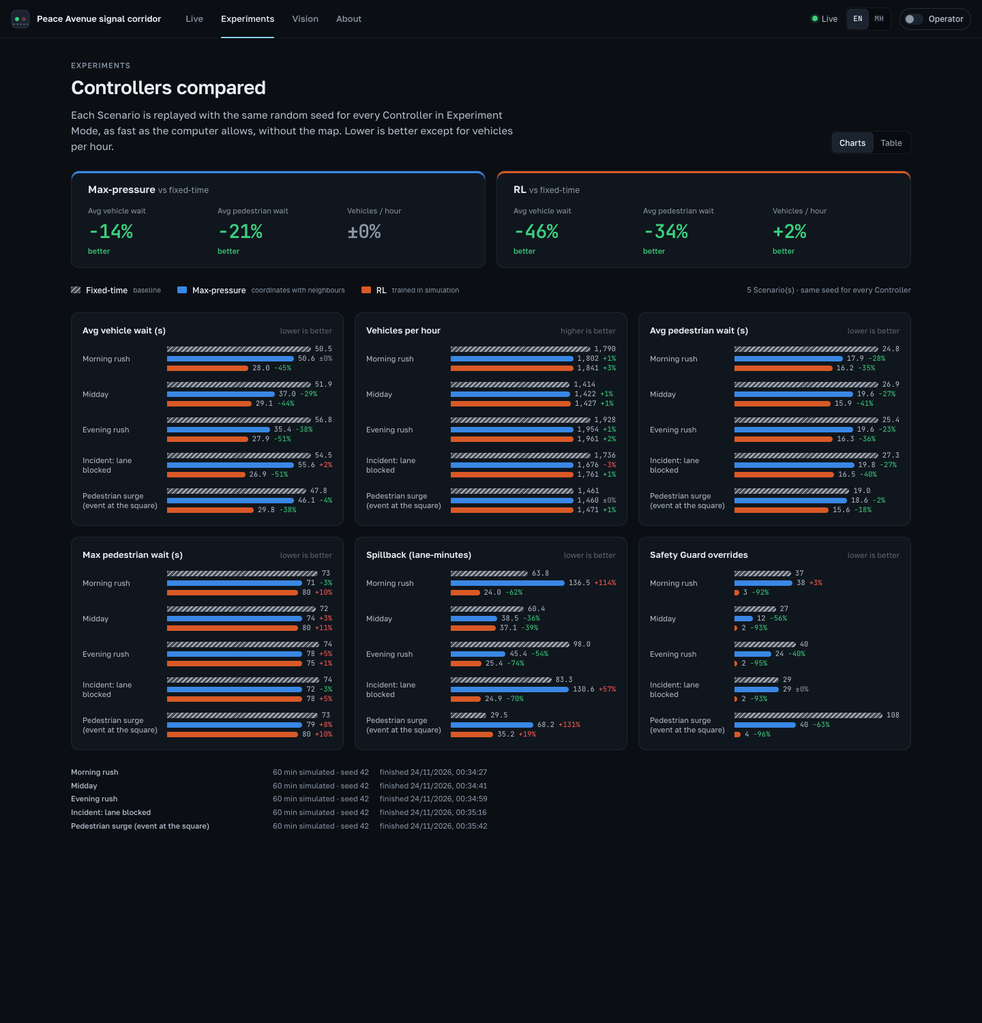
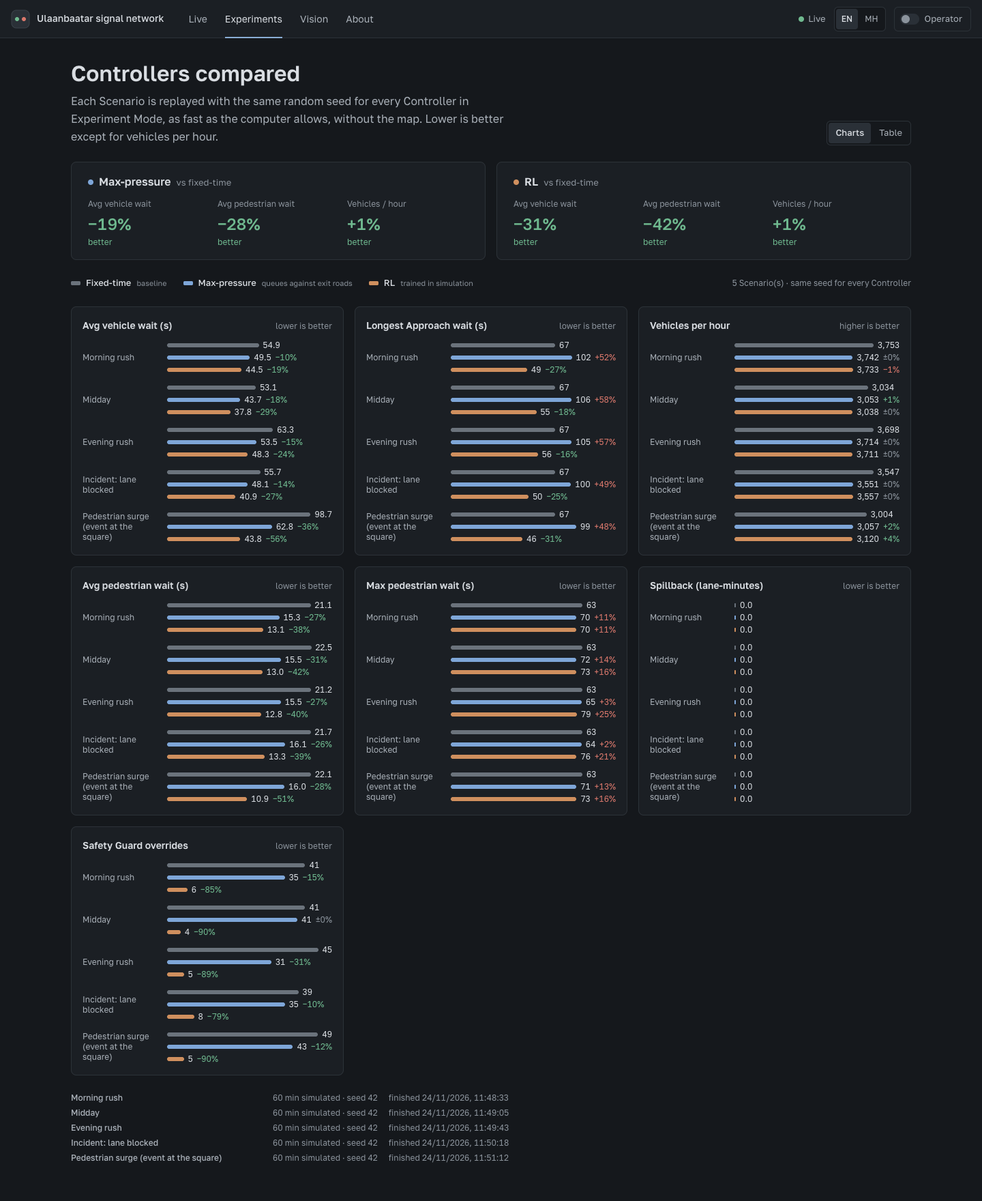
Describe the Network and its results in the docs

diff --git a/README.md b/README.md
@@ -1,41 +1,66 @@
-# Smart traffic lights for Peace Avenue, Ulaanbaatar
+# Ulaanbaatar signal network
 
-An open-source demo of AI traffic-signal control on a 1.3 km stretch of Peace Avenue (Энх тайваны өргөн чөлөө) in central Ulaanbaatar. It controls five Signal Sites, from the State Department Store to Baga Toiruu East, past the Central Post Office and Sükhbaatar Square. Vehicles and pedestrians are simulated on real road geometry from OpenStreetMap. Controllers decide which Phase goes green, and a Safety Guard makes sure nobody waits too long.
+An open-source demo of AI traffic-signal control in central Ulaanbaatar. It controls a Network of 15 Signal Sites on streets running east-west and north-south around Sükhbaatar Square: 14 Intersections and one Mid-block Crossing, at the State Department Store. Vehicles and pedestrians are simulated on real road geometry from OpenStreetMap. Controllers decide which Phase goes green, and a Safety Guard limits how long anyone waits.
 
-The words used here (Signal Site, Approach, Crosswalk, Phase, Spillback, Safety Guard and so on) are defined in [GLOSSARY.md](GLOSSARY.md). The big decisions are in [docs/adr](docs/adr).
+Fourteen of the sites lie on eight Corridors:
 
-![Live corridor map](docs/screenshots/live-map.png)
+| Corridor | Direction | Signal Sites |
+|---|---|---|
+| Peace Avenue | east-west | 5 |
+| Sambuu St | east-west | 4 |
+| Juulchny St | east-west | 2 |
+| Genden St | east-west | 2 |
+| Baga Toiruu West | north-south | 3 |
+| Sükhbaatar St – Chinggis Ave | north-south | 3 |
+| University St – Olympic St | north-south | 4 |
+| Baga Toiruu East | north-south | 2 |
+
+A site where two Corridors cross counts in both. Seoul St / Tserendorj St is in no Corridor. Other signals inside the area run fixed programs and are drawn grey.
+
+The words used here (Network, Corridor, Signal Site, Approach, Crosswalk, Phase, Spillback, Safety Guard and so on) are defined in [GLOSSARY.md](GLOSSARY.md). The big decisions are in [docs/adr](docs/adr).
+
+![Live map of the Network](docs/screenshots/live-map.png)
 
 ## How it decides
 
 - **The Controller proposes, the Safety Guard decides** ([ADR 0002](docs/adr/0002-controller-proposes-safety-guard-decides.md)). Three Controllers can be switched live:
   - **Fixed-time**: cycles Phases on a schedule, like most of the city today. This is the Baseline.
-  - **Max-pressure**: gives green where waiting queues most exceed the room on the roads they drain into. It looks at its Neighbours' queues, so it won't feed a Signal Site that is already jammed.
+  - **Max-pressure**: gives green to the Phase whose waiting vehicles most exceed the vehicles already on their exit roads. Each Signal Site decides from its own Approaches and exits; sites do not coordinate.
   - **RL**: a phase scorer trained in the simulation.
-- **Caps the Safety Guard enforces, whatever the Controller wants:**
-  - Pedestrians never wait more than **90 s**.
-  - A vehicle Approach waits at most **120 s**. The Guard may extend that while the Approach's exit has Spillback, but never past **180 s**.
+- **Caps the Safety Guard works to, whatever the Controller wants** (defaults; an Operator can change them):
+  - Pedestrians: Hard Cap **90 s**.
+  - A vehicle Approach: Soft Cap **120 s**, which the Guard may extend while the Approach's exit has Spillback, and Hard Cap **180 s**.
   - Min green, pedestrian walk and clearance, yellow and all-red always run.
   - Every Override is logged with the rule that forced it.
 - **Camera vision** (`vision/`) shows what a camera would feed the Controller: queued vehicles per Approach and waiting pedestrians per Crosswalk, measured on recorded street video. It is a showcase, and the simulation does not use it ([ADR 0001](docs/adr/0001-simulation-first-on-sumo.md)).
 
 ## Results
 
-These come from Experiment Mode: each Scenario runs for one hour, with the same traffic for every Controller (`sim/data/experiments/`). Each cell reads fixed-time → max-pressure → RL.
+These come from Experiment Mode: each Scenario runs for one hour, with the same traffic for every Controller (`sim/data/experiments/`, seed 42). Each cell reads Fixed-time → Max-pressure → RL.
 
-| Scenario | Avg vehicle wait | Avg pedestrian wait | Max pedestrian wait | Spillback minutes |
+| Scenario | Avg vehicle wait | Longest Approach wait | Avg pedestrian wait | Max pedestrian wait |
 |---|---|---|---|---|
-| Morning rush | 50.5 → 50.6 → 28.0 s | 24.8 → 17.9 → 16.2 s | 73 → 71 → 80 s | 63.8 → 136.5 → 24.0 |
-| Midday | 51.9 → 37.0 → 29.1 s | 26.9 → 19.6 → 15.9 s | 72 → 74 → 80 s | 60.4 → 38.5 → 37.1 |
-| Evening rush | 56.8 → 35.4 → 27.9 s | 25.4 → 19.6 → 16.3 s | 74 → 78 → 75 s | 98.0 → 45.4 → 25.4 |
-| Incident: lane blocked | 54.5 → 55.6 → 26.9 s | 27.3 → 19.8 → 16.5 s | 74 → 72 → 78 s | 83.3 → 130.6 → 24.9 |
-| Pedestrian surge | 47.8 → 46.1 → 29.8 s | 19.0 → 18.6 → 15.6 s | 73 → 79 → 80 s | 29.5 → 68.2 → 35.2 |
+| Morning rush | 54.9 → 49.5 → 44.5 s | 67 → 102 → 49 s | 21.1 → 15.3 → 13.1 s | 63 → 70 → 70 s |
+| Midday | 53.1 → 43.7 → 37.8 s | 67 → 106 → 55 s | 22.5 → 15.5 → 13.0 s | 63 → 72 → 73 s |
+| Evening rush | 63.3 → 53.5 → 48.3 s | 67 → 105 → 56 s | 21.2 → 15.5 → 12.8 s | 63 → 65 → 79 s |
+| Incident: lane blocked | 55.7 → 48.1 → 40.9 s | 67 → 100 → 50 s | 21.7 → 16.1 → 13.3 s | 63 → 64 → 76 s |
+| Pedestrian surge (event at the square) | 98.7 → 62.8 → 43.8 s | 67 → 99 → 46 s | 22.1 → 16.0 → 10.9 s | 63 → 71 → 73 s |
 
-- **RL** roughly halves the average vehicle wait against the Baseline, and cuts the average pedestrian wait by about a third.
-- **Max-pressure** clearly helps at midday and in the evening rush. In the morning rush and the incident it ties the Baseline on vehicle wait and builds more Spillback.
-- **The pedestrian cap held**: no run let a pedestrian wait more than 90 s.
+"Longest Approach wait" is the longest time any Approach with a Queue went without green. One vehicle can need more than one green, so it is not the longest wait of a single vehicle.
 
-Traffic demand is generated, not measured, so compare the Controllers with each other, not with real Peace Avenue.
+- **RL** has the lowest average vehicle wait, the lowest average pedestrian wait and the shortest Longest Approach wait in every Scenario. Against the Baseline it cuts the average vehicle wait by 19% to 56% and the average pedestrian wait by 38% to 51%.
+- **Max-pressure** comes second on both averages in every Scenario: 10% to 36% lower for vehicles, 26% to 31% lower for pedestrians. Its Longest Approach wait is the worst of the three, 48% to 58% longer than the Baseline, and the Safety Guard's vehicle Soft Cap forces most of its Overrides.
+- **Both are worse than the Baseline on the longest pedestrian wait** in every Scenario: 64 to 72 s for Max-pressure and 70 to 79 s for RL, against 63 s.
+- **Throughput barely changes.** Vehicles served per hour stay within 1% of the Baseline except in the pedestrian surge (Max-pressure +2%, RL +4%). In the morning rush both serve slightly fewer (3,742 and 3,733 against 3,753).
+- **Some vehicles get stuck.** SUMO removes a vehicle that has not moved for 300 s and puts it back further on (a teleport). That happened to at most 25 of 3,966 vehicles in a run. RL has more teleports than the Baseline at midday (13 against 9), in the evening rush (25 against 7) and in the incident (20 against 15); Max-pressure has more in the evening rush (17 against 7) and the pedestrian surge (17 against 16).
+
+**Caps.** All 15 runs stayed within the Hard Caps of 90 s for pedestrians and 180 s for Approaches: the longest waits were 79 s and 106 s. A randomised search at the default caps also found no breach. That is evidence, not proof. With the Operator's pedestrian cap at its minimum of 45 s, a 3-Phase Signal Site can breach the vehicle Hard Cap: a wait of 192 s was measured, and a Phase without a Crosswalk can be starved.
+
+**Earlier results.** Results published before the 15-site Network came from a sensor that saw waiting pedestrians at only one kerb of each Crosswalk, so the earlier claim that no pedestrian waited more than 90 s did not hold. A check of those 15 runs found 99 waits over 90 s in 14 of them, the longest 315 s where the metric said 71 s. Both kerbs are now sensed ([ledger](docs/specs/0001-street-network/factory.md)). The old numbers are for a different road network and must not be compared with this table.
+
+**Spillback** is 0.0 lane-minutes in every run, so it is not in the table. The earlier non-zero figures came from the road import: junctions left unjoined had exit lanes 0.2 to 7.1 m long, where a single car counted as a full road (in the old run that was traced, evening rush with Max-pressure, all 45.4 minutes were on such lanes). Those junctions are now joined and the shortest exit lane is 16.6 m. An exit lane counts as Spillback when it is 75% full; across the 15 runs the fullest reading was 78%, and all such readings in a run together rounded to 0.0 minutes. Only the first road segment after a site is measured, so 0.0 does not mean there are no queues. It does mean these runs hardly exercise the parts of the Safety Guard and the Controllers that react to Spillback.
+
+Traffic demand is generated, not measured, so compare the Controllers with each other, not with real traffic in Ulaanbaatar.
 
 ![Controllers compared](docs/screenshots/experiments.png)
 
@@ -60,10 +85,10 @@ With Docker, `docker compose up --build` starts all three (if your default build
 
 | Path | What |
 |---|---|
-| `sim/` | SUMO corridor model, Safety Guard, Controllers, live API, Experiment Mode, RL training. See [sim/README.md](sim/README.md) |
+| `sim/` | SUMO model of the Network, Safety Guard, Controllers, live API, Experiment Mode, RL training. See [sim/README.md](sim/README.md) |
 | `vision/` | YOLO vehicle and pedestrian counting on recorded video. See [vision/README.md](vision/README.md) |
 | `client/` | React + Vite web client: live map, Signal Site detail, Operator controls, experiments, vision. See [client/README.md](client/README.md) |
-| `docs/` | ADRs and research notes |
+| `docs/` | ADRs, specs and research notes |
 
 ## Data and licences
 

diff --git a/sim/README.md b/sim/README.md
@@ -1,6 +1,6 @@
-# Corridor simulation
+# Ulaanbaatar signal network: simulation
 
-The simulation service: a SUMO model of five Signal Sites on Peace Avenue, the Safety Guard, three Controllers, the live API the client uses, and Experiment Mode.
+The simulation service: a SUMO model of a Network of 15 Signal Sites on eight Corridors in central Ulaanbaatar, the Safety Guard, three Controllers, the live API the client uses, and Experiment Mode. The Python package is still named `corridor_sim`.
 
 ## Run
 
@@ -8,6 +8,8 @@ The simulation service: a SUMO model of five Signal Sites on Peace Avenue, the S
 uv sync
 uv run python -m corridor_sim.server          # http://localhost:8000
 ```
+
+`HOST`, `PORT` and `CORS_ORIGINS` (comma-separated) change where it listens and which origins may call it.
 
 Optional: copy `.env.example` to `.env.local` and set `OPENAI_API_KEY` to enable "Explain this decision". The narrator only describes a Signal Site's state after the fact; it never takes part in control (ADR 0002).
 
@@ -22,13 +24,16 @@ uv run python -m corridor_sim.build
 
 The build:
 
-1. Downloads the corridor from Overpass (`scripts/fetch_osm.sh`).
-2. Runs `netconvert` with guessed sidewalks and crossings.
-3. Joins the State Department Store mid-block signal nodes and adds its Crosswalk.
-4. Merges the eight Central Post Office signal nodes into one junction.
-5. Resolves each Signal Site to its traffic light (`data/sites.json`).
-6. Exports map geometry for the client (`data/network.json`).
-7. Writes the five Scenarios (`data/scenarios/`).
+1. Downloads the area from Overpass (`scripts/fetch_osm.sh`) if `data/corridor.osm.xml` is missing.
+2. Runs `netconvert` with guessed sidewalks and crossings, leaving out OSM's separate footways.
+3. Joins the nodes that `netconvert` left apart at six Signal Sites (`join_nodes` in `config.py`), and discards OSM turn lanes at four of them (`reset_connections`).
+4. Adds the Crosswalk of the Mid-block Crossing at the State Department Store. The result is `data/corridor.net.xml`.
+5. Resolves each of the 15 Signal Sites to the closest traffic light, at most 60 m away, with its Approaches, Crosswalks and Neighbours (`data/sites.json`). Neighbours come from the road graph: a drivable path, in either direction, of at most 700 m with no other controlled site on it.
+6. Checks the sites and Corridors, and exits with a message and a non-zero status if a site has no Phase or more than three, an Approach, Crosswalk or vehicle signal no Phase serves, or a traffic light another site uses, or if two sites next to each other on a Corridor are not Neighbours.
+7. Exports map geometry, sites and Corridors for the client (`data/network.json`).
+8. Writes the five Scenarios (`data/scenarios/`). A vehicle volume is set per street class (arterial, collector, minor) and direction for every road entering the area. An incident that does not match exactly one Approach stops the build.
+
+Each experiment result and the RL model record the SHA-256 of `data/corridor.net.xml`. If a rebuild changes the network, retrain RL and rerun the experiments; the server logs a warning when the model does not match.
 
 ## Experiment Mode
 
@@ -47,24 +52,27 @@ uv run python -m corridor_sim.controllers.rl train --iterations 12 --population 
 
 The RL Controller scores each Phase with a linear function of nine features: pressure, upstream queue, Spillback on exits, waiting pedestrians, the oldest pedestrian and vehicle waits, stickiness and the age of the current Phase. It is trained by cross-entropy policy search, which optimises the weights directly for average vehicle wait plus half the average pedestrian wait, penalising teleports and vehicles stuck waiting to enter the network.
 
-Each candidate runs inside the Safety Guard, so the policy learns within the caps rather than learning them. Training takes about 4 minutes on an M2 Pro. It uses the same five Scenarios with different random seeds from the evaluation, so the results show what the policy can learn on this corridor, not how it generalises to unseen traffic.
+`train` scores each candidate on two half-hour runs per iteration, so the command above simulates 336 runs. Each candidate runs inside the Safety Guard, so the policy learns within the caps rather than learning them. Training overwrites `data/models/rl-linear.json`. It uses the same five Scenarios with different random seeds from the evaluation, so the results show what the policy can learn on this Network, not how it generalises to unseen traffic.
 
 ## API
 
 | Method | Path | Purpose |
 |---|---|---|
-| GET | `/api/network` | Geometry, Signal Sites with Approaches, Crosswalks, Phases and Neighbours, Scenarios, Controllers |
+| GET | `/api/network` | Geometry and bounds, Signal Sites with Approaches (with `direction` and `streetEn`), Crosswalks (with `streets`), Phases and Neighbours, `corridors` (`id`, names, `axis` `ew` or `ns`, `sites` in order), Scenarios, Controllers |
+| GET | `/api/health` | Liveness and Scenario time |
 | GET | `/api/state` | Scenario, Controller, speed, pause, caps |
-| WS | `/ws` | `state` messages and live `frame` messages (signals, queues, waits, Congestion Levels, metrics, events, vehicles, pedestrians) |
+| WS | `/ws` | `state` messages and live `frame` messages (signals, queues, waits, Congestion Levels, metrics, events, vehicles, pedestrians). `metrics.maxVehicleWait` is the Longest Approach wait. The first frame after connecting carries recent events |
 | POST | `/api/control` | `pause`, `resume`, `speed`, `scenario`, `restart`, `controller`, `caps`, `button` (Pedestrian Demand), `block` (toggle a lane closure) |
 | POST | `/api/explain` | Plain-language explanation of one Signal Site, `language` `en` or `mn` |
-| GET/POST | `/api/experiments` | Read results or start a background run |
+| GET/POST | `/api/experiments` | Read results (with `maxVehicleWait` per Controller) or start a background run of an hour per Scenario |
 
 ## Layout
 
-- `corridor_sim/model.py`: Signal Sites, links and Phases, read from the SUMO network.
+- `corridor_sim/config.py`: Signal Site and Corridor definitions, default caps, timings and thresholds.
+- `corridor_sim/build.py`: the network, Neighbour and Scenario build.
+- `corridor_sim/model.py`: Signal Sites, links and Phases, read from the SUMO network, and site validation.
 - `corridor_sim/phases.py`: builds compact conflict-free Phases where SUMO's guess has too many.
-- `corridor_sim/sensing.py`: queues, Spillback, waiting pedestrians and Congestion Levels.
+- `corridor_sim/sensing.py`: queues, Spillback, waiting pedestrians at both kerbs and Congestion Levels.
 - `corridor_sim/guard.py`: the Safety Guard, covering clearance, yellow, all-red, min green, the caps and Overrides.
 - `corridor_sim/controllers/`: the fixed-time, max-pressure and RL Controllers.
 - `corridor_sim/engine.py`: the simulation loop, wait tracking, metrics, incidents and frames.

diff --git a/docs/research/street-network-osm.md b/docs/research/street-network-osm.md
@@ -1,0 +1,95 @@
+# Street network (Ulaanbaatar): OSM signals and data quality for the 15-site Network
+
+Sources: the committed extract `sim/data/corridor.osm.xml` (Overpass, OSM base timestamp `2026-11-24T03:09:47Z`, fetched by
+`sim/scripts/fetch_osm.sh`), the Signal Site definitions in `sim/corridor_sim/config.py` and the built `sim/data/sites.json`.
+Facts marked "survey" come from a wider Overpass query (bbox 47.905,106.895,47.930,106.935, base `2026-11-24T02:28:56Z`),
+kept only in a temporary scratchpad. The earlier survey of Peace Avenue is [peace-avenue-corridor-osm.md](peace-avenue-corridor-osm.md).
+
+- bbox (south, west, north, east): **47.9115, 106.9030, 47.9245, 106.9280**
+- The extract holds 4,288 nodes and 907 ways. Ways are kept whole, so some reach outside the bbox. 33 nodes are
+  `highway=traffic_signals`; 49 are signalised crossings (`crossing=traffic_signals` or `crossing:signals=yes`).
+- The built network has 23 traffic lights: 15 belong to the Signal Sites, 8 run fixed programs.
+
+## The 15 sites
+
+"Signal nodes" and "signalised crossings" are nodes within 60 m of the coordinates in `config.py`. Crossings count only when
+they lie on a road. Approaches and Crosswalks are what the build resolved; `netconvert` guesses Crosswalks where OSM has none.
+
+| id | lat, lon (`config.py`) | Signal nodes | Signalised crossings | Approaches | Crosswalks |
+|---|---|---|---|---|---|
+| ikh-delguur (Mid-block Crossing) | 47.91618, 106.90638 | 8995081807 | 2 | 2 | 2 |
+| baga-toiruu-west | 47.91666, 106.91193 | 57677289, 8420678194 | 4 | 3 | 4 |
+| tuv-shuudan | 47.91673, 106.91625 | 1270395917, 1270396026, 2513512815 | 6 | 4 | 5 |
+| ikh-surguuli | 47.91723, 106.91958 | 1054352912, 3911981611 | 8 | 4 | 4 |
+| baga-toiruu-east | 47.91775, 106.92394 | 57677290, 1054352964 | 0 | 3 | 3 |
+| juulchny-baga-toiruu | 47.92003, 106.91138 | 305119956 | 0 | 4 | 4 |
+| amar-ikh-surguuli | 47.91993, 106.91888 | 280742669 | 1 | 3 | 3 |
+| sambuu-baga-toiruu-west | 47.92213, 106.91095 | 6236425319 | 1 | 4 | 3 |
+| sambuu-sukhbaatar | 47.92208, 106.91555 | 2496907426 | 1 | 4 | 4 |
+| sambuu-ikh-surguuli | 47.92222, 106.91844 | 3913061711 | 0 | 4 | 4 |
+| sambuu-baga-toiruu-east | 47.92257, 106.92291 | 280742383 | 5 | 4 | 3 |
+| juulchny-baruun-selbe | 47.91971, 106.90641 | none | 2 | 4 | 4 |
+| chinggis-genden | 47.91319, 106.91516 | 480748221, 8995108307 | 1 | 4 | 5 |
+| olympic-genden | 47.91408, 106.92183 | 281051608 | 3 | 4 | 4 |
+| seoul-tserendorj | 47.91375, 106.90689 | 281052570, 395232771 | 4 | 4 | 6 |
+
+- `juulchny-baruun-selbe` has no signal node, only signalised crossings (9763736527, 14026600889) about 11 m either side of
+  the junction. It is controlled on that evidence.
+- `chinggis-genden` includes the pedestrian signal 8995108307 (`traffic_signals=pedestrian_crossing`), about 51 m north of its
+  junction. The two junctions share one traffic light.
+- Three junctions have no signal node and stay unsignalised: Seoul / Chinggis (node 1241687100, nearest signal 94 m),
+  Sükhbaatar / Juulchny (641468227, 205 m) and Amar / Baga Toiruu east (3892885154, 255 m).
+
+## Junctions that need joins
+
+At six sites `netconvert` leaves nodes of one junction apart, with stubs shorter than a car between them, so the build joins
+the OSM nodes listed as `join_nodes`:
+
+| Site | Nodes | OSM turn lanes |
+|---|---|---|
+| ikh-delguur | 3 | kept |
+| tuv-shuudan | 9 | discarded |
+| ikh-surguuli | 4 | kept |
+| sambuu-sukhbaatar | 4 | discarded |
+| sambuu-ikh-surguuli | 3 | discarded |
+| juulchny-baruun-selbe | 2 | discarded |
+
+Turn lanes are discarded where joining left whole lanes that can do nothing but a U-turn.
+
+## Data quality for SUMO import
+
+Shares are by length of ways inside the bbox, from the committed extract (a way segment counts if its midpoint is inside).
+"Major" is trunk to tertiary with links, 20.4 km; "minor" is unclassified, residential and living street, 17.1 km.
+
+| | Major | Minor |
+|---|---|---|
+| `lanes` | 100% | 59% |
+| `maxspeed` | 90% | 3% |
+| `turn:lanes*` | 12% | 0% |
+| any `sidewalk*` | 60% | 9% |
+| `name` | 93% | 18% |
+
+- **Direction split.** 61% of major road length is two-way with two or more lanes. For 38% (about six tenths of it) there is
+  no `lanes:forward` or `lanes:backward`, so the split between directions is a guess. That includes all of Juulchny, Genden,
+  Amar and Usny streets, 80% of Chinggis Ave, 72% of Seoul St and 64% of Olympic St. Two ways have an odd total with no
+  split: 241658524 (Ambassador St, 3 lanes) and 1537784426 (Seoul St, 5 lanes).
+- **Speed.** Tserendorj St and Usny St have no `maxspeed`.
+- **Sidewalks.** OSM maps most sidewalks as separate footways. The build leaves those out and guesses sidewalks on the roads.
+- **Turn restrictions.** The survey found 45 turn restriction relations with a via node in the bbox (25 `no_left_turn`,
+  15 `no_u_turn`, 3 `no_right_turn`, 2 `no_straight_on`). `fetch_osm.sh` asks for ways only, so the extract holds no
+  relations and the network does not know these restrictions.
+- **Names.** Spellings differ by case or letter for one street (`Бага Тойруу` / `Бага тойруу`, `Баруун сэлбийн` /
+  `Баруун Сэлбийн`, `Энх тайвны` / `Энх тайваны`). The build matches names without case and has one alias.
+- **Unnamed continuations.** 24 major ways have no name. Seven ways that continue a named street get its name by way id in
+  `build.py`: 863783234 (Peace Ave), 81528712 (Baga Toiruu), 81528723 (Sambuu St), 303599291 (Beijing St), 34409213 and
+  512970905 (Baruun Selbe St), 708458504 (Usny St).
+
+## Not verified
+
+- Whether OSM signals and crossings match the ground, including the sites and the unsignalised junctions above.
+- Real signal timings and Phases. The Phases are derived from the road geometry.
+- Crosswalks guessed where OSM has no signalised crossing: all of them at `baga-toiruu-east`, `juulchny-baga-toiruu` and
+  `sambuu-ikh-surguuli`.
+- Lane splits on the two-way streets listed above, and lane use where turn lanes were discarded.
+- Mongolian site names and the English transliterations.
+- Demand. Volumes are generated from street class and direction, not measured.

diff --git a/client/README.md b/client/README.md
@@ -1,6 +1,6 @@
 # Client
 
-The web app for the Peace Avenue corridor demo: a live map of the simulated Corridor, a panel for each Signal Site, Operator controls, Controller comparisons from Experiment Mode, the camera vision showcase and a plain-language explanation of the system. UI text is in English and Mongolian. Terms follow [GLOSSARY.md](../GLOSSARY.md).
+The web app for the Ulaanbaatar signal network: a live map of the simulated Network of 15 Signal Sites, a picker for its eight Corridors, a panel for each Signal Site, Operator controls, Controller comparisons from Experiment Mode, the camera vision showcase and a plain-language explanation of the system. UI text is in English and Mongolian. Terms follow [GLOSSARY.md](../GLOSSARY.md).
 
 React 19, Vite, TypeScript (strict) and MapLibre GL JS. The basemap is OpenFreeMap's `dark` style (no key); map data © OpenStreetMap contributors.
 
@@ -54,20 +54,20 @@ docker run --rm -p 8080:80 stl-client
 
 ## Using it
 
-- **Live**: congestion on every road (free, slow, jammed), signal colours at stop lines and Crosswalks, vehicles and pedestrians. Click a Signal Site on the map or in the corridor strip at the bottom to open its panel: a live schematic, the current Phase and stage, the Controller's score for each Phase, every Approach and Crosswalk with its wait against the caps, and the site's events. The Explain button asks the simulation service for a language-model explanation (only when it has an OpenAI key).
+- **Live**: congestion on every road (free, slow, jammed), signal colours at stop lines and Crosswalks, vehicles and pedestrians. The strip at the bottom lists the Signal Sites of one Corridor, west to east or north to south; its picker offers the eight Corridors and "All sites" and starts on Peace Avenue. The map names the sites of the chosen Corridor where the names fit; with "All sites" it names a site when you hover, focus or select it. Click a Signal Site on the map or in the strip to open its panel: a live schematic, the current Phase and stage, the Controller's score for each Phase, every Approach and Crosswalk with its wait against the caps, and the site's events. The Explain button asks the simulation service for a language-model explanation (only when it has an OpenAI key).
 - **Operator** switch (top right, no login): change the Controller, Scenario, speed and caps, pause, restart, press a pedestrian button on a Crosswalk or block a lane on an Approach. Viewers see the same data read-only. The setting is remembered per browser.
-- **Experiments**: Controllers compared per Scenario, with the change against the Fixed-time baseline. Operators can start a run; the page polls until it finishes.
+- **Experiments**: Controllers compared per Scenario, including the Longest Approach wait, with the change against the Fixed-time baseline. Operators can start a run; the page polls until it finishes.
 - **Vision**: the annotated camera stream and zone counts from the vision service, with each clip's licence. The simulation does not use it.
 
-The event log only holds events that happened while the page was open; the simulation service does not replay older ones.
+When the page connects, the simulation service sends the recent events of the current run (200 at most), so the event log does not start empty.
 
 ## Layout
 
 ```
 src/
   api/        types, HTTP calls, the reconnecting live store (WebSocket)
-  map/        MapLibre engine: layers, per-frame updates, vehicle interpolation, site markers, legend
-  live/       Live page: metrics strip, Operator bar, corridor strip, Signal Site panel and schematic, event log
+  map/        MapLibre engine: layers, per-frame updates, vehicle interpolation, site markers and names, legend
+  live/       Live page: metrics strip, Operator bar, Corridor picker and strip, Signal Site panel and schematic, event log
   pages/      Experiments, Vision, About
   i18n/       EN/MN dictionary and localised names
   ui/, lib/   shared pieces

diff --git a/docs/specs/0001-street-network/factory.md b/docs/specs/0001-street-network/factory.md
@@ -15,3 +15,8 @@ pr:
 - 2026-11-24 build S2: runtime done; foreman withdrew resolutions 1 and 2 after S2's adversarial search contradicted them (longer lead broke the vehicle Hard Cap at low Operator caps). S2 also found that SUMO links each crossing to its signal from one kerb, so pedestrians at the other kerb were not sensed; fixed, follow-up requested.
 - 2026-11-24 build S2 done: lead reverted; randomised search found no breach at default caps 90/120/180. Pre-existing, unfixed: at Operator pedestrian cap 45, 3-Phase sites breach the vehicle Hard Cap (192 s, or starvation where a Phase has no Crosswalk). Finding for the user: before this branch, far-kerb pedestrians were unsensed; 99 person-runs over 90 s across 14 of 15 committed runs (longest 315 s vs metric 71), so the README 90 s claim was false.
 - 2026-11-24 build S1 built: AC1 to AC5 and AC15 evidenced; AC6 89.8 to 94.3% arrived, teleports at most 0.62%. Foreman amended: Beijing St is arterial (Sambuu's eastern continuation).
+- 2026-11-24 build S1 and S3 committed. AC6 with Beijing arterial: 90.6 to 93.9% arrived, at most 0.58% teleports. Build and lint clean (three pre-existing lint warnings). S3 also fixed a marker bug: pins were drawn 18 px lower per index.
+- 2026-11-24 build S4: RL retrained and 15 experiment runs done; all 15 within caps (worst pedestrian 79 s, worst Approach 106 s); model and results carry the committed net hash 02b3baea. RL has the lowest average vehicle and pedestrian wait in all five Scenarios.
+- 2026-11-24 finding: Spillback is 0.0 in every run. In commit 9ada9d0 (evening-rush, Max-pressure, one run traced) all 45.4 lane-minutes came from 0.2 to 7.1 m stub exit lanes, which the new joins removed; the shortest exit lane is now 16.6 m. The sensor only reads the first exit edge. Not changed; for the user.
+- 2026-11-24 finding (pre-existing): fetch_osm.sh fetches no relations, so 45 OSM turn restrictions in the area are missing from the net. Not changed; for the user.
+- 2026-11-24 build S5 done: README files, research note, screenshots. Open text questions: About says the caps are never exceeded (not true at Operator cap 45), the event-log empty text, vision.png branding.

diff --git a/docs/adr/0001-simulation-first-on-sumo.md b/docs/adr/0001-simulation-first-on-sumo.md
@@ -2,6 +2,8 @@
 
 The project is a simulated demo of a Peace Avenue corridor in Ulaanbaatar, not a pilot on real signals. Traffic, signals and pedestrians run in Eclipse SUMO on road geometry imported from OpenStreetMap; camera vision is shown separately on recorded video and does not drive the simulation. We did not build on `Srikeerthiraja/Smart-Traffic-Light-Control-System`: it holds only README pseudocode and has no license (see `docs/research/smart-traffic-light-repo-evaluation.md`).
 
+Note, 2026-11-24: the simulated area is now a 15-site Network (`docs/specs/0001-street-network/index.md`). The decision is unchanged.
+
 ## Consequences
 
 - Real signal hardware, NTCIP and city approval are out of scope.

diff --git a/docs/research/peace-avenue-corridor-osm.md b/docs/research/peace-avenue-corridor-osm.md
@@ -1,5 +1,7 @@
 # Peace Avenue corridor (Ulaanbaatar): OSM signals and data quality for SUMO
 
+This survey chose the original five sites. The current 15-site Network is in [street-network-osm.md](street-network-osm.md).
+
 Source: Overpass API (overpass-api.de), OSM base timestamp `2026-11-23T15:25:49Z`. Raw JSON and scripts are in
 `/private/tmp/claude-501/-Users-bayarjavkhlan--t3-scratch-2026-11-23-https-github-com-srikeerthiraja-smart-2c074087/e3b6773a-4718-4f35-a8ac-df870b8be9cf/scratchpad/osm/`
 (`raw/area_highways.json` is every `highway=*` way in bbox 47.908,106.875,47.925,106.96 plus their tagged nodes).
